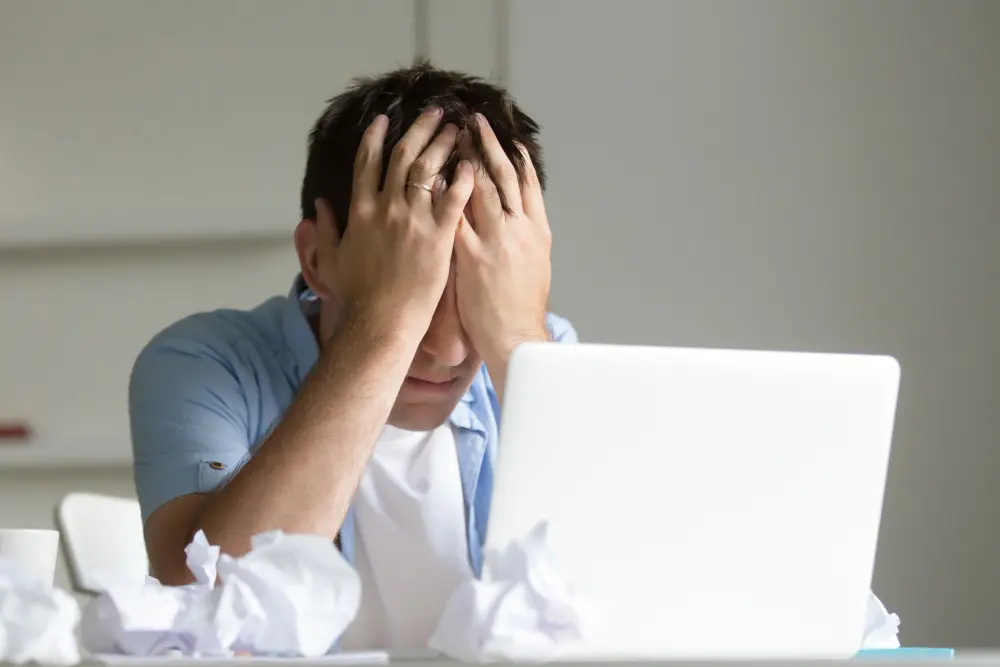
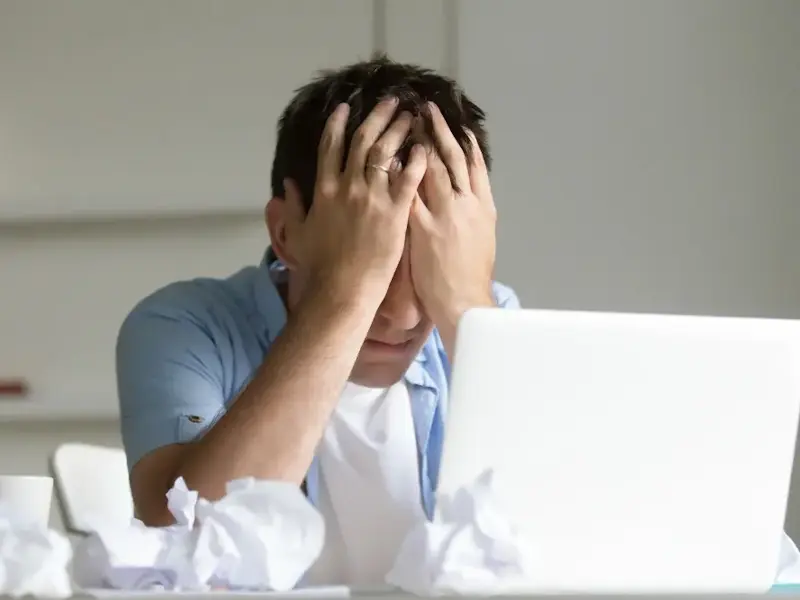
Add files via upload
Las imágenes fueron optimizadas y los botones de buscar apoyo ahora redirigen directamente a solicitar citas

diff --git a/index.html b/index.html
@@ -1,5 +1,7 @@
 <!-- HI! -->
 
+<!-- KEVIN A. CELIS NEIRA -->
+
 <!DOCTYPE html>
 
 <html lang="es">
@@ -54,7 +56,7 @@
         <a href="#hero" class="logo font-display font-800 text-xl tracking-tight" aria-label="Inicio de Impulso Magdalena">
           impulso<span class="text-ocean-400">.</span>
         </a>
-        <button class="nav-cta" aria-label="Pedir apoyo ahora" onclick="document.getElementById('support').scrollIntoView({behavior:'smooth'})">
+        <button class="nav-cta" aria-label="Pedir apoyo ahora" onclick="document.getElementById('contact').scrollIntoView({behavior:'smooth'})">
           Pedir Apoyo
         </button>
       </div>
@@ -114,7 +116,7 @@
           <!-- BUTTON: "NECESITO APOYO" -->
           
           <div class="btn-g-cont">
-            <a href="#support" class="btn-ghost g-start reveal reveal-delay-3" aria-label="Ir a la sección de apoyo psicológico">
+            <a href="#contact" class="btn-ghost g-start reveal reveal-delay-3" aria-label="Ir a la sección de apoyo psicológico">
               Necesito Apoyo
             </a>
           </div>
@@ -924,21 +926,34 @@
           
         </div>
         
-        <!-- CONTACT GRID -->
+        <!-- GET DATE -->
         
         <div class="contact-spotlight glass-card reveal" aria-label="Formulario oficial para solicitar citas de acompañamiento">
+          
+          <!-- CONTENT -->
+          
           <div class="contact-spotlight-content">
+            
+            <!-- BADGE -->
+            
             <div class="contact-spotlight-badge">Canal oficial de citas</div>
+            
+            <!-- HEADER -->
+            
             <h3 class="contact-title font-display">Formulario de solicitud de cita</h3>
             <p class="contact-note">Atención humana, confidencial y centrada en tu bienestar.</p>
             <p class="contact-desc">Tu solicitud llega directamente al equipo de Bienestar para coordinar una cita de acompañamiento y darte seguimiento oportuno.</p>
-
+            
+            <!-- STEPS -->
+            
             <div class="contact-steps" aria-label="Pasos para solicitar tu cita">
               <div class="contact-step"><span>1</span> Abre el formulario.</div>
               <div class="contact-step"><span>2</span> Completa tus datos con calma.</div>
               <div class="contact-step"><span>3</span> Espera la confirmación de tu cita.</div>
             </div>
-
+            
+            <!-- LINK BUTTON -->
+            
             <div class="contact-cta-wrap">
               <a href="https://forms.office.com/Pages/ResponsePage.aspx?id=G85p_cYg7EK1Tm0bOHCsbmO1mj0jdDZLh94Ed9Khlt5UQVJMN0IySE9CME5JMlo5MkJaRkhQUVVTNy4u&origin=QRCode" class="btn-contact contact-spotlight-cta" target="_blank" rel="noopener noreferrer" aria-label="Abrir formulario para solicitar cita de acompañamiento">
                 Solicitar cita
@@ -947,32 +962,42 @@
             </div>
           </div>
           
+          <!-- RIGHT SIDE CONTENT -->
+          
           <div class="spotlight-side-cont">
+            
             <div class="contact-spotlight-side" aria-hidden="true">
+              
+              <!-- ANIMATION -->
+              
               <div class="contact-form-preview" aria-hidden="true">
+                
                 <div class="form-anim-title"></div>
-
+                
                 <div class="form-anim-group">
                   <div class="form-anim-label"></div>
                   <div class="form-anim-input"></div>
                 </div>
-
+                
                 <div class="form-anim-group">
                   <div class="form-anim-label form-anim-label-short"></div>
                   <div class="form-anim-input"></div>
                 </div>
-
+                
                 <div class="form-anim-group">
                   <div class="form-anim-label"></div>
                   <div class="form-anim-input form-anim-input-area"></div>
                 </div>
-
+                
                 <div class="form-anim-button"></div>
+                
               </div>
+              
               <div class="contact-mini-card">
                 <svg width="18" height="18" viewBox="0 0 24 24" fill="none" stroke="currentColor" stroke-width="2"><path d="M9 2h6l3 3v15a2 2 0 0 1-2 2H8a2 2 0 0 1-2-2V5a2 2 0 0 1 2-2z"/><path d="M9 8h6"/><path d="M9 12h6"/><path d="M9 16h4"/></svg>
                 Solicitud segura y confidencial
               </div>
+              
             </div>
             
           </div>
@@ -994,7 +1019,7 @@
               Estás exactamente<br /><span class="gradient-text">donde necesitas estar</span>
             </h2>
             <p class="section-subtitle">
-              Estos códigos QR están distribuidos por todo el campus para que puedas entrar rápido
+              Este código QR fue hecho para que puedas entrar rápido
               a esta guía y conocer cómo pedir ayuda psicológica en la universidad.
               Guarda esta página en tus favoritos para tenerla siempre a la mano.
             </p>
